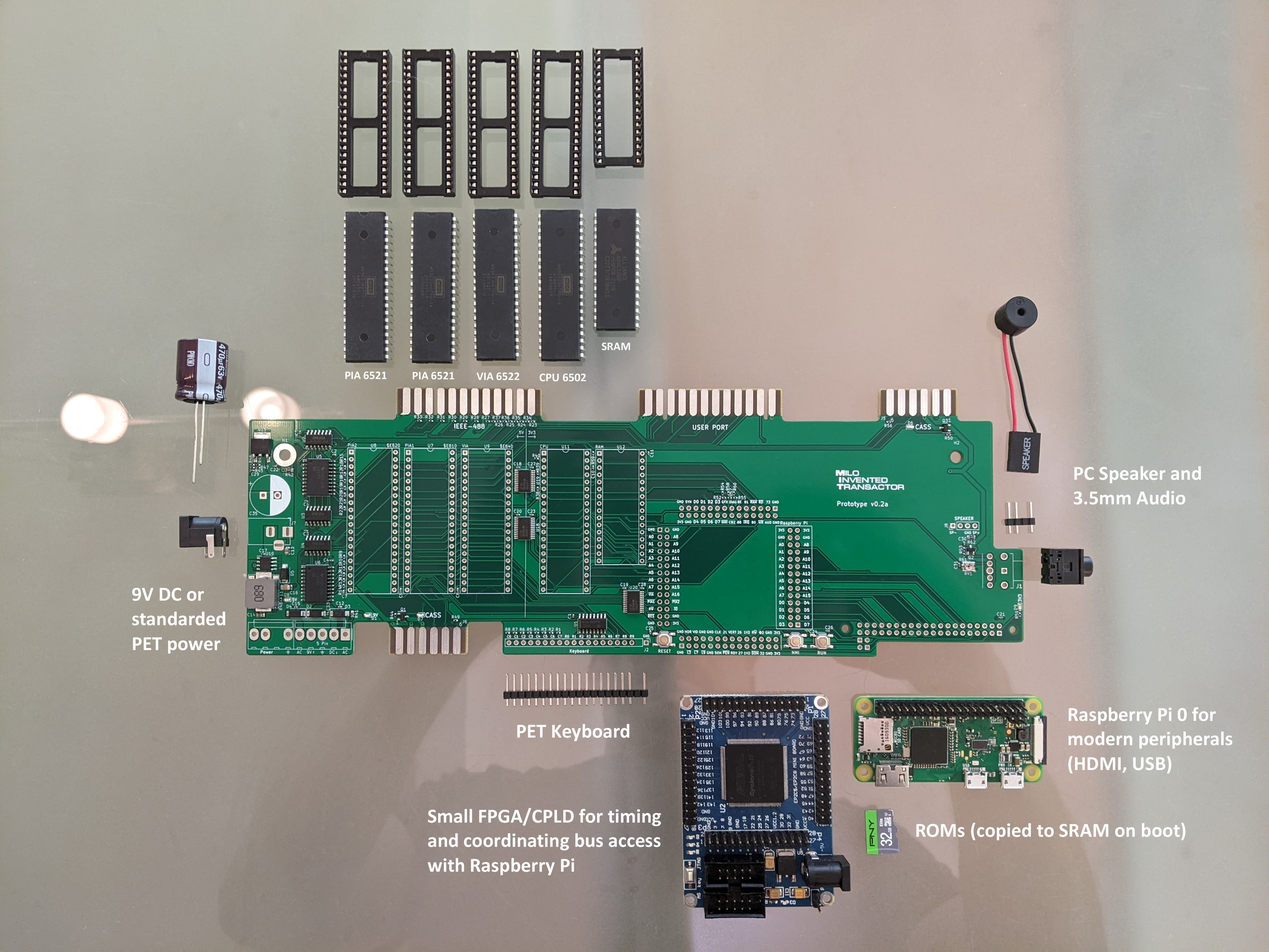
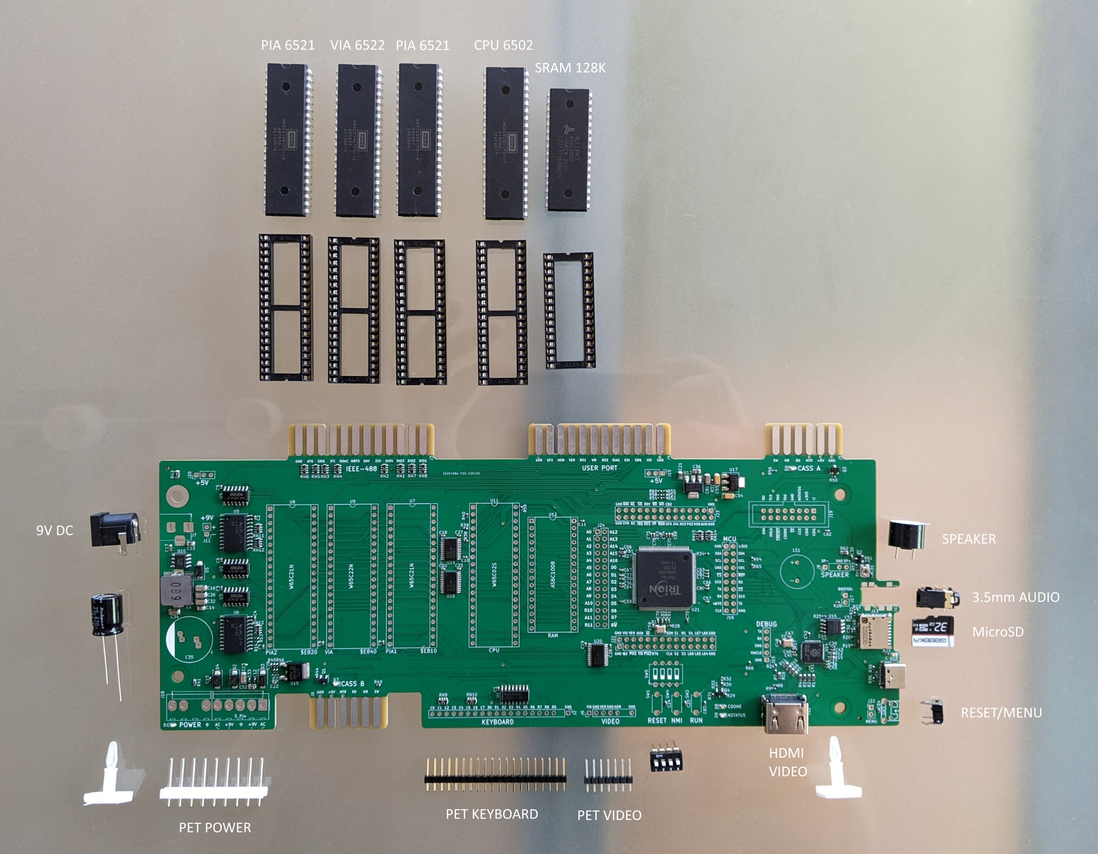
Update README with current status

diff --git a/README.md b/README.md
@@ -1,8 +1,50 @@
 ## PET Clone
-This is an open hardware clone of the Commodore PET 4032.
-It can be used stand-alone with modern peripherals (USB keyboard and HDMI display), or function as a mainboard replacement for a real Commodore PET.
+
+Open hardware clone of the Commodore CBM/PET using modern parts.
+Some assembly required.  :-)
 
 ![](https://github.com/DLehenbauer/commodore-pet-clone/raw/main/docs/img/assembly-required.jpg)
 
 ## Status
-Currently finalizing v0.3 prototype board.  Collaborators warmly appreciated (see [Issues](https://github.com/DLehenbauer/commodore-pet-clone/issues)).
+
+Working prototype.  Currently finalizing V1.0 release.
+
+## About
+
+This open hardware CBM/PET clone can be used in two ways:
+
+1. By itself with an HDMI display and USB keyboard
+2. As a mainboard replacement to repair/enhance a vintage CBM/PET
+
+You can also do both at once, as shown in the image below:
+
+![](https://github.com/DLehenbauer/commodore-pet-clone/raw/main/docs/img/status.jpg)
+
+## Design
+
+The following block diagram provides an overview of the system architecture:
+
+![](https://github.com/DLehenbauer/commodore-pet-clone/raw/main/docs/img/block-diagram.drawio.svg)
+
+Here are the highlights:
+
+* CPU and I/O are similar to the original Commodore design, using the 6502, PIA, and VIA.
+* Main RAM, Display RAM and ROM are combined on a single 128K SRAM.
+  * On POR the MCU initialized $9000-FFFF with the user's selected ROM set
+  * After initialization, $9000-FFFF is write protected.
+* Timing, address decoding, and native PET video are consolidated on a small FPGA.
+* The MCU reads display RAM and mirrors the PET video to HDMI (via bit-banged DVI)
+* The MCU also reports USB keyboard input to the FPGA
+  * The FPGA intercepts reads from $E812 to inject USB key input as-needed
+  * When no USB keys are pressed, the read passes through to PIA1.
+
+## Contributing
+
+Collaborators warmly appreciated (see [Issues](https://github.com/DLehenbauer/commodore-pet-clone/issues)).
+
+## License
+
+This project is public domain under the CC0-1.0 license, exempting portions incorporated
+from other open source projects as noted [here](NOTICE.md) and in the source code.
+
+[![License: CC0-1.0](https://img.shields.io/github/license/DLehenbauer/commodore-pet-clone)](https://github.com/DLehenbauer/commodore-pet-clone/blob/main/LICENSE)
